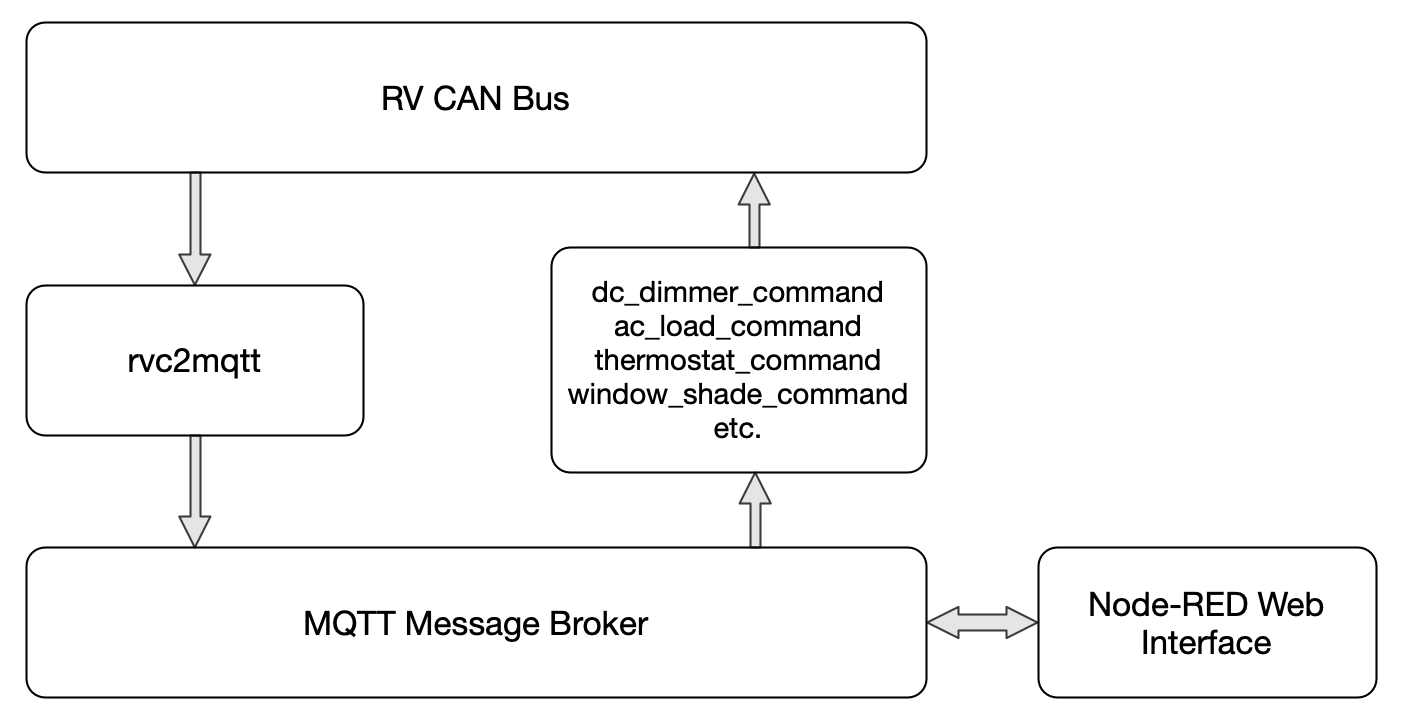
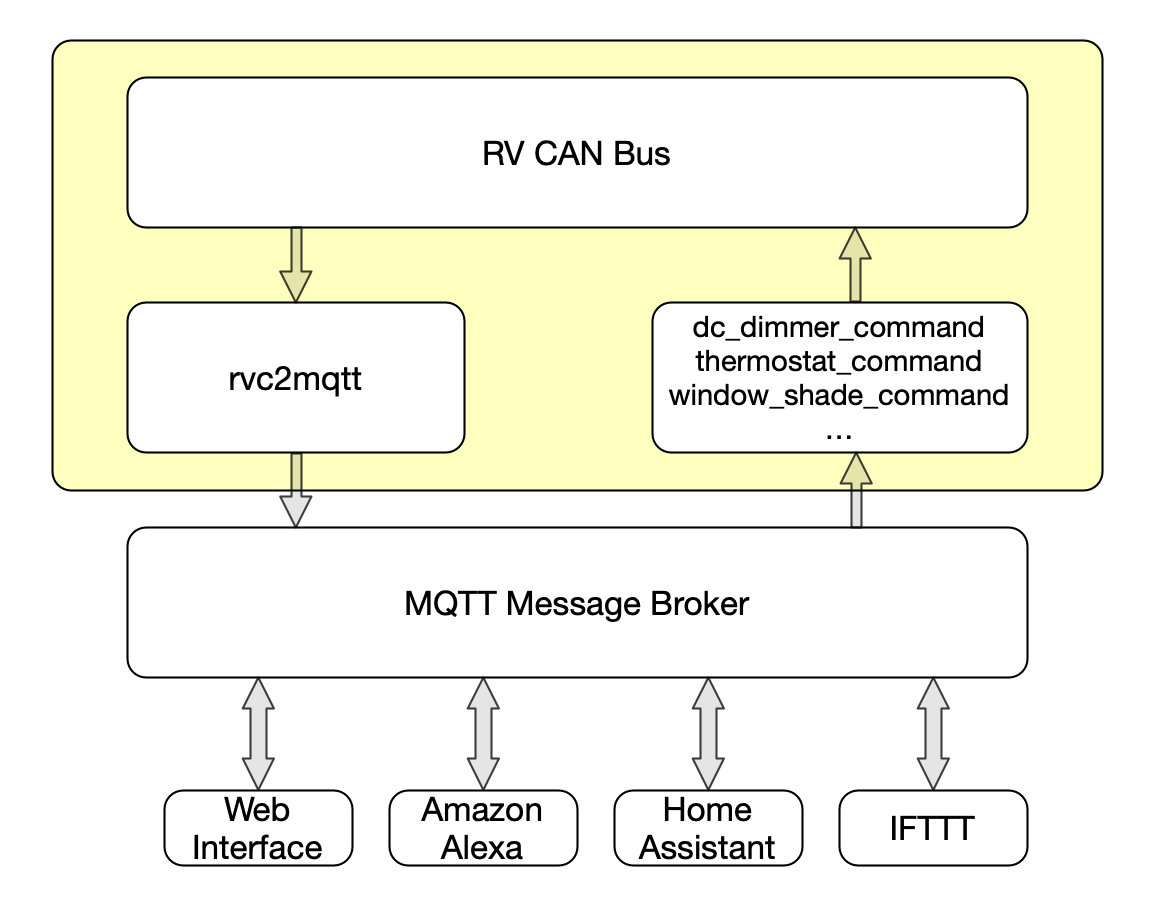
Updated README

diff --git a/README.md b/README.md
@@ -1,20 +1,71 @@
 # RV Control
 
-A re-write from scratch of
-[CoachProxyOS](https://github.com/rvc-proxy/coachproxy-os/)
-scripts to monitor and send RV-C messages.
+This project's goal is to enable two-way communication between an RV's CAN bus
+network and an MQTT message broker. It is not meant to be an end-to-end RV
+control or automation solution, but rather a foundation which other tools and
+projects can be built upon.
+
+This is a from-scratch rewrite of some of the components of
+[CoachProxyOS](https://github.com/rvc-proxy/coachproxy-os/).
+
+Download the complete [RV-C
+specification](http://www.rv-c.com/?q=node/75) for details on the
+protocol and its messages. This PDF file is critical for
+understanding how to communicate with RV-C devices.
+
+What it does
+------------
+
+Monitoring:
+* Receives raw RV-C messages from the CAN bus.
+* Decodes those messages into human-readable JSON objects according to the RV-C specification.
+* Decodes additional, vendor-proprietary RV-C messages (currently just a few custom messages used by Spyder Controls).
+* Publishes decoded messages to an MQTT message broker.
+
+Controlling:
+* Receives commands from the MQTT Broker.
+* Encodes those commands into RV-C messages.
+* Sends the messages onto the CAN bus.
+
+What it does NOT do
+-------------------
+
+* Interpretation of messages (e.g. this message means "Hallway Light").
+* Any kind of logic (e.g. do something when a certain message is recevied).
+* Any kind of user interface.
+
+System overview
+---------------
+
+The yellow area outlines the scope of this project. Other example
+components may be developed at a future date.
 
 ![System Overview Diagram](images/rv_control_diagram.png?raw=true)
 
-Raspberry Pi 3B Setup
----------------------
+Requirements
+------------
 
-Install latest Raspbian Buster lite image.
+A computer with a CAN bus network card. This will almost certainly be a
+Raspberry Pi 3B computer with a PiCAN2 board.
+
+The latest Raspberry Pi OS operating system image (Buster Lite is used for
+development).
+
+The Ruby development environment and supporting Gems:
 
 ~~~
 sudo apt -y install ruby-dev
 sudo gem install json yaml mqtt
 ~~~
+
+An MQTT message broker to communicate with. Often this will run on the same
+Raspberry Pi, and can be installed easily:
+
+~~~
+sudo apt -y install mosquitto
+~~~
+
+# Software Documentation
 
 RV-C Decoding
 -------------
@@ -23,6 +74,8 @@ The `rvc2mqtt.rb` script in the `rvc-to-mqtt/` directory listens on the canbus,
 decodes all RV-C messages, and publishes the decoded result to an MQTT
 server. The `rvc-spec.yaml` file provides the instructions for decoding
 the RV-C spec.
+
+(more details coming soon)
 
 RV-C Control
 ------------
@@ -45,5 +98,4 @@ sent to the desired direction to initiate movement for a defined duration. If
 the same command is sent again, the second `Toggle` will stop the current
 motion without reversing the direction of the device, to stop a shade partway
 for example.
-
 
